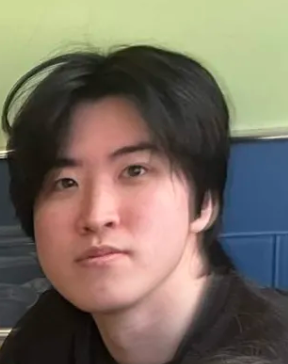
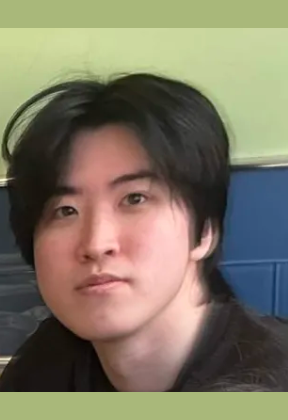
Deck: fix Derek and David headshot crops

diff --git a/modal_rd/deck/index.html b/modal_rd/deck/index.html
@@ -419,7 +419,7 @@ const TODO = [
 const TEAM = [
   {img: "thomas.jpg", initial: "T", name: "Thomas Lee", role: "Project Manager",
    pts: ["Started on the team as a developer", "Product AI Engineer shipping rugged GPUs for NASA and the biggest US defense companies", "Managed 4 winning projects · Hack the North solo winner"]},
-  {img: "derek.png", initial: "D", name: "Derek Chen", role: "Co-Lead", pos: "center 15%",
+  {img: "derek.png", initial: "D", name: "Derek Chen", role: "Co-Lead", pos: "center 0%",
    pts: ["3rd-year Engineering Physics", "Founder of Bigger Bird"]},
   {img: "han.png", initial: "H", name: "Han Fang", role: "Co-Lead",
    pts: ["3rd-year EngSci, ECE major", "Joined as co-lead"]},
@@ -427,7 +427,7 @@ const TEAM = [
    pts: ["Developer on the team", "Also lent us his A100 GPU until July"]},
   {img: "albert.png", initial: "A", name: "Albert", role: "Developer", tag: "new hire",
    pts: ["Developer on the team"]},
-  {img: "david.png", initial: "D", name: "David", role: "Developer", pos: "center 4%", tag: "new hire",
+  {img: "david.png", initial: "D", name: "David", role: "Developer", pos: "center 0%", tag: "new hire",
    pts: ["Developer on the team"]},
 ];
 
